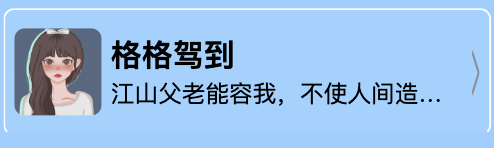
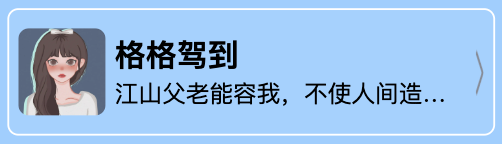
[Whoami] - add some default props value to card.

Changed region(s): [[0.0, 0.0556, 1.0, 0.9444], [0.6073, 0.5556, 0.9109, 0.7222]]

diff --git a/plugins/card/uni-app/card.vue b/plugins/card/uni-app/card.vue
@@ -14,15 +14,28 @@
     // import context from './context';
     export default {
         props: {
-            mode: [Number, String],
+            mode: {
+                type: [Number, String],
+                default: "0",
+            },
             type: [Number, String],
             oid: String,
             src: String,
             title: String,
             desc: String,
             url: String,
-            color: String,
-            bgColor: String
+            color: {
+                type: String,
+                default: "#000"
+            },
+            bgColor: {
+                type: String,
+                default: "#a4d0ff"
+            },
+            border: {
+                type: String,
+                default: "1px solid #FFF"
+            }
         },
         data() {
             return {
@@ -33,6 +46,7 @@
             customStyle() {
                 return {
                     "background-color": this.bgColor,
+                    "border": this.border,
                     "color": this.color
                 } 
             }
@@ -91,13 +105,6 @@
         
         padding: 20rpx 0 20rpx 10rpx;
         border-radius: 12rpx;
-        
-        // color: #323233;
-        @include _border(cal-main-color);
-        @include _color(cal-reverse-color);
-        // background-color: #fff;
-        @include _background_color("cal-theme-light-color");
-        @include _border_bottom_color("cal-theme-color");
         
         &-img {
             width: 96rpx;
